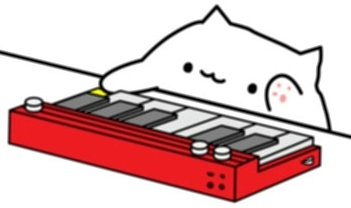
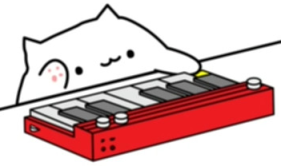
Tapping cats (#68)
* keyboard cat

* Add cat for the 3rd voice

* cymbal cat, wrong scale yet

* fix cymbal cat scale

* flop (not flip) red piano cat

* All cats play at once!

diff --git a/src/main.rs b/src/main.rs
@@ -807,6 +807,17 @@ async fn main() {
     .await;
 }
 
+fn is_step_hit(track_num: usize, sequencer: &Sequencer) -> bool {
+    sequencer.tracks[track_num].patterns[sequencer.tracks[track_num].current_pattern]
+        .steps
+        .len()
+        > sequencer.tracks[track_num].current_step as usize
+        && !sequencer.tracks[track_num].silenced
+        && sequencer.tracks[track_num].patterns[sequencer.tracks[track_num].current_pattern].steps
+            [sequencer.tracks[track_num].current_step]
+            .is_some()
+}
+
 async fn ui_main(
     mut sequencer: Sequencer,
     sample_provider: Arc<SampleProvider>,
@@ -819,9 +830,17 @@ async fn ui_main(
     let cat_up: Texture2D = load_texture("uigraphics/cat_up.png").await.unwrap();
     let cat_down: Texture2D = load_texture("uigraphics/cat_down.png").await.unwrap();
 
+    let cat_cymbal_up: Texture2D = load_texture("uigraphics/cat_cymbal_up.png").await.unwrap();
+    let cat_cymbal_down: Texture2D = load_texture("uigraphics/cat_cymbal_down.png")
+        .await
+        .unwrap();
+
     let cat_piano_left: Texture2D = load_texture("uigraphics/cat_left.png").await.unwrap();
-    let cat_piano_right: Texture2D = load_texture("uigraphics/cat_left.png").await.unwrap();
+    let cat_piano_right: Texture2D = load_texture("uigraphics/cat_right.png").await.unwrap();
     let cat_piano_none: Texture2D = load_texture("uigraphics/cat_none.png").await.unwrap();
+
+    let cat_piano2_middle: Texture2D = load_texture("uigraphics/cat_middle.png").await.unwrap();
+    let cat_piano2_none: Texture2D = load_texture("uigraphics/cat_none_2.png").await.unwrap();
 
     //Loading UI Skins from ui_skins.rs to not clutter main.rs with code that does not belong in here
     let titlebanner_struct = TitleBannerSkin::new();
@@ -889,6 +908,11 @@ async fn ui_main(
 
     deselect_step(&sequencer, &mut context);
 
+    let mut cat_1_seen = false;
+    let mut cat_2_seen = false;
+    let mut cat_3_seen = false;
+    let mut cat_4_seen = false;
+
     loop {
         clear_background(WHITE);
 
@@ -940,31 +964,101 @@ async fn ui_main(
             //DRAW EVERYTHING AS GROUPS NOT WINDOWS!!
             //~ Sure thing boss, but I'll also draw a cat
 
-            let current_cat = if sequencer.tracks[context.current_track as usize].patterns[0]
-                .steps
-                .len()
-                <= context.current_step_play as usize
-            {
-                cat_up
-            } else {
-                if sequencer.tracks[context.current_track as usize].patterns
-                    [context.current_pattern as usize]
-                    .steps[context.current_step_play as usize]
-                    .is_some()
-                {
-                    cat_down
+            // let current_cat = if sequencer.tracks[context.current_track as usize].patterns
+            //     [context.current_pattern]
+            //     .steps
+            //     .len()
+            //     <= context.current_step_play as usize
+            //     || sequencer.tracks[context.current_track as usize].silenced
+            // {
+            //     if context.current_track == 3 {
+            //         cat_piano_none
+            //     } else if context.current_track == 1 {
+            //         cat_cymbal_up
+            //     } else if context.current_track == 2 {
+            //         cat_piano2_none
+            //     } else {
+            //         cat_up
+            //     }
+            // } else {
+            //     if sequencer.tracks[context.current_track as usize].patterns
+            //         [context.current_pattern as usize]
+            //         .steps[context.current_step_play as usize]
+            //         .is_some()
+            //     {
+            //         if context.current_track == 3 {
+            //             if context.current_step_play % 2 == 0 {
+            //                 cat_piano_left
+            //             } else {
+            //                 cat_piano_right
+            //             }
+            //         } else if context.current_track == 1 {
+            //             cat_cymbal_down
+            //         } else if context.current_track == 2 {
+            //             cat_piano2_middle
+            //         } else {
+            //             cat_down
+            //         }
+            //     } else {
+            //         if context.current_track == 3 {
+            //             cat_piano_none
+            //         } else if context.current_track == 1 {
+            //             cat_cymbal_up
+            //         } else if context.current_track == 2 {
+            //             cat_piano2_none
+            //         } else {
+            //             cat_up
+            //         }
+            //     }
+            // };
+            // draw_texture(
+            //     current_cat,
+            //     750.,
+            //     200.,
+            //     // screen_width() / 2. - cat_up.width() / 2.,
+            //     // screen_height() / 2. - cat_up.height() / 2.,
+            //     WHITE,
+            // );
+
+            if cat_1_seen || !sequencer.tracks[0].silenced {
+                if is_step_hit(0, sequencer) && sequencer.playing {
+                    draw_texture(cat_down, 750., 200., WHITE);
+                    cat_1_seen = true;
                 } else {
-                    cat_up
+                    draw_texture(cat_up, 750., 200., WHITE);
                 }
-            };
-            draw_texture(
-                current_cat,
-                750.,
-                200.,
-                // screen_width() / 2. - cat_up.width() / 2.,
-                // screen_height() / 2. - cat_up.height() / 2.,
-                WHITE,
-            );
+            }
+
+            if cat_2_seen || !sequencer.tracks[1].silenced {
+                if is_step_hit(1, sequencer) && sequencer.playing {
+                    draw_texture(cat_cymbal_down, 750., 400., WHITE);
+                    cat_2_seen = true;
+                } else {
+                    draw_texture(cat_cymbal_up, 750., 400., WHITE);
+                }
+            }
+
+            if cat_3_seen || !sequencer.tracks[2].silenced {
+                if is_step_hit(2, sequencer) && sequencer.playing {
+                    draw_texture(cat_piano2_middle, 750., 600., WHITE);
+                    cat_3_seen = true;
+                } else {
+                    draw_texture(cat_piano2_none, 750., 600., WHITE);
+                }
+            }
+
+            if cat_4_seen || !sequencer.tracks[3].silenced {
+                if is_step_hit(3, sequencer) && sequencer.playing {
+                    if sequencer.tracks[3].current_step % 2 == 0 {
+                        draw_texture(cat_piano_left, 750., 800., WHITE);
+                        cat_4_seen = true;
+                    } else {
+                        draw_texture(cat_piano_right, 750., 800., WHITE);
+                    }
+                } else {
+                    draw_texture(cat_piano_none, 750., 800., WHITE);
+                }
+            }
 
             /*
             root_ui().push_skin(&titlebanner_skin_clone);
